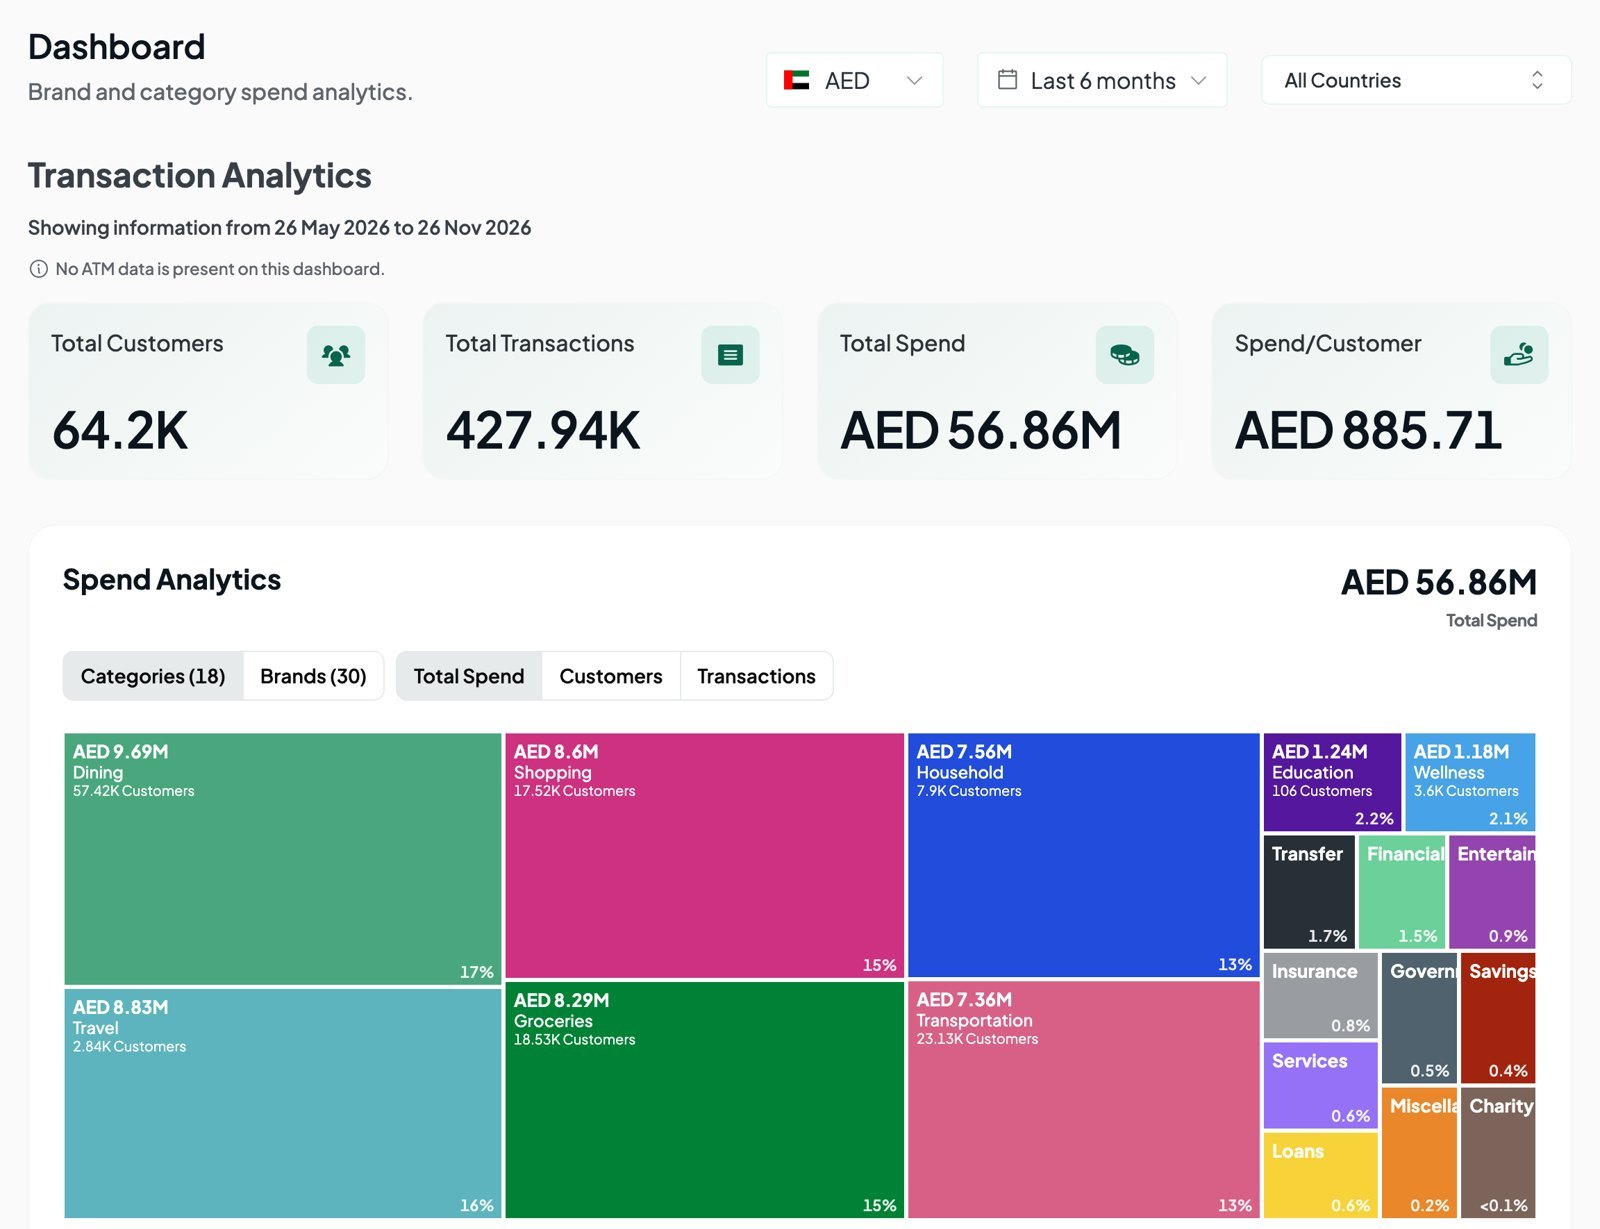
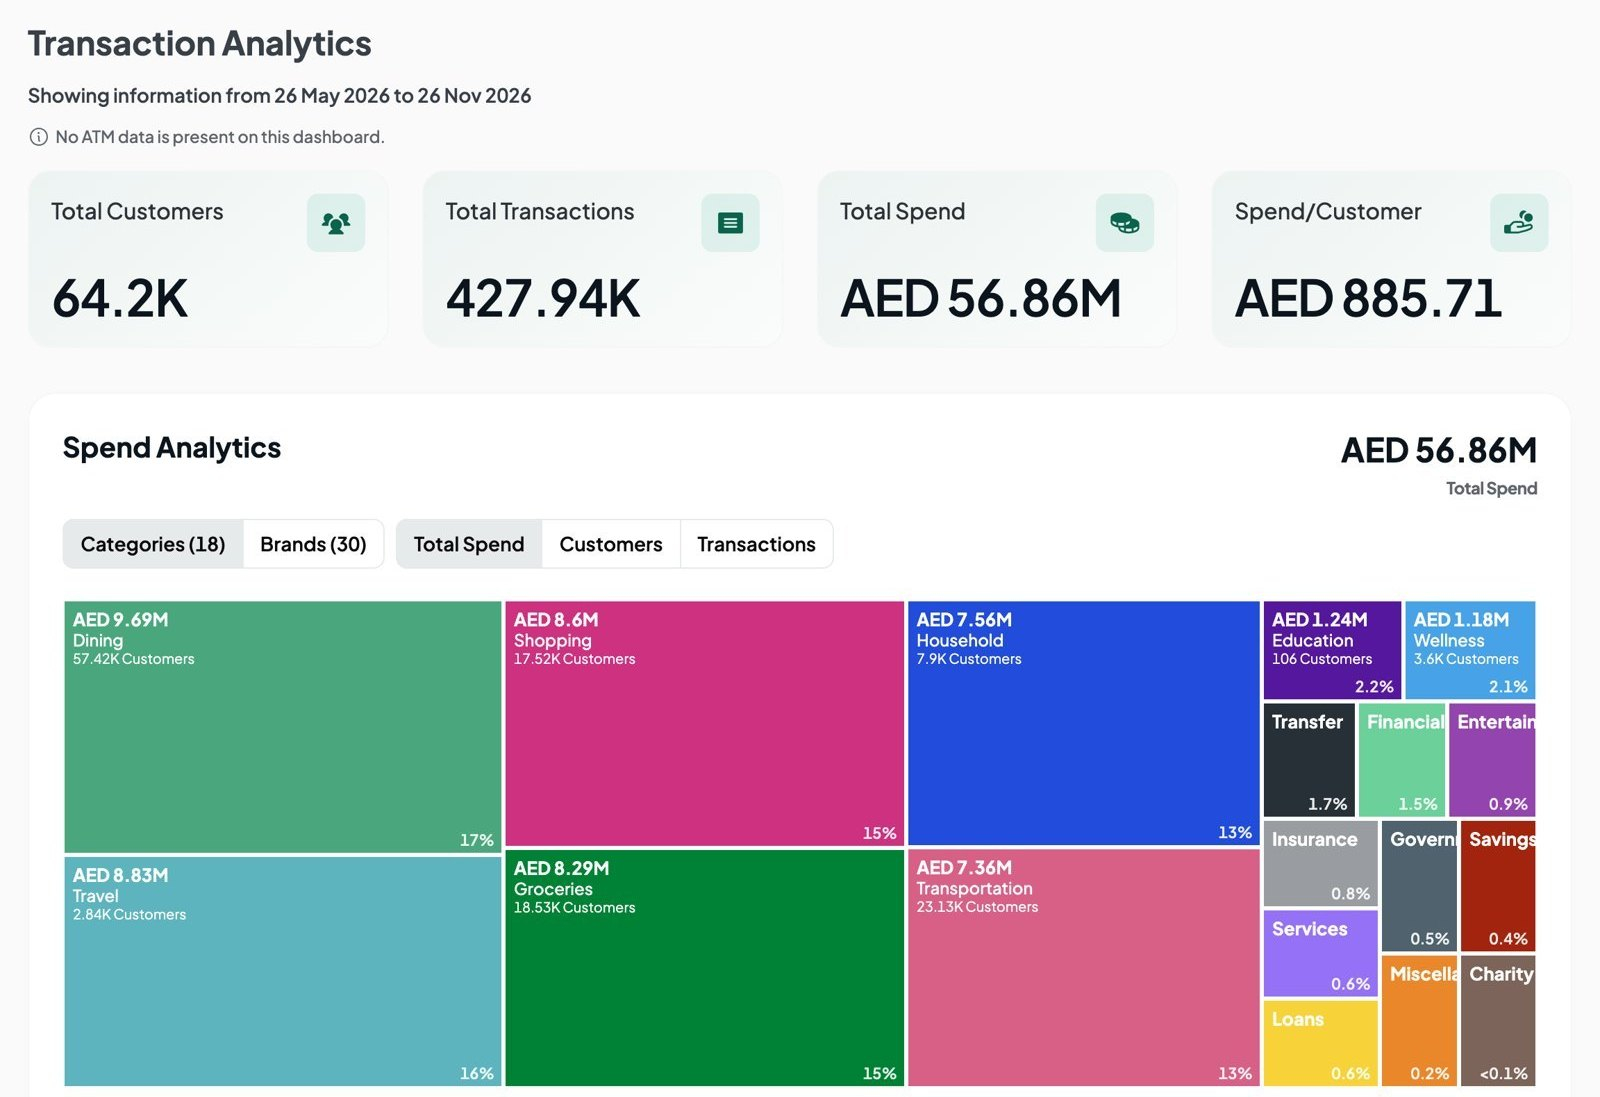
Analytics dashboard starts at Transaction Analytics; Transactions screen moves to the Enrich page

diff --git a/enrich.html b/enrich.html
@@ -72,7 +72,7 @@
 <section class="sec sec--white"><div class="wrap stack">
 <div class="feature feature--wide"><div class="feature__copy"><h2 style="font-size:clamp(26px,2.6vw,38px)">Your team sees each enriched transaction.</h2>
 <p class="lead">LuneHub is the Lune portal for bank teams. It lists each transaction with its raw description and its enriched result.</p><ul class="facts"><li><b>Search</b> by raw description or transaction ID.</li><li><b>Compare</b> the raw description with the brand and category.</li><li><b>Flag</b> a result that looks wrong.</li></ul></div><figure class="shot"><div class="shot__frame">
-<div class="ui-wrap" role="img" aria-label="LuneHub transactions list with raw description, brand, category, date and amount"><div class="ui"><div class="ui__head"><div class="ui__title"><b>Transactions</b><span>Each card description with its enriched result</span></div><div class="ui__actions"><span class="ui__pill ok">Real time</span></div></div><div class="ui__table ui__table--tx" style="--cols:4"><div class="ui__tr ui__tr--head"><span class="ui__th ">From your bank</span><span class="ui__th ui__keycol">Merchant</span><span class="ui__th opt">Category</span><span class="ui__th num opt2">Amount</span></div><div class="ui__tr"><span class="ui__td "><code>POS PUR 448812 LVL SHS DXB MALL 00AE</code></span><span class="ui__td ui__keycol"><span class="ui__brand"><img src="img/logos/levelshoes.png" alt="">Level Shoes</span></span><span class="ui__td opt">Shopping › Clothing</span><span class="ui__td num opt2">AED 1,032.00</span></div><div class="ui__tr"><span class="ui__td "><code>MAF HYPMKT MOE-0042 DXB ARE</code></span><span class="ui__td ui__keycol"><span class="ui__brand"><img src="img/logos/carrefour.png" alt="">Carrefour</span></span><span class="ui__td opt">Groceries › Supermarket</span><span class="ui__td num opt2">AED 412.30</span></div><div class="ui__tr"><span class="ui__td "><code>ALSHAYA SBX 0921 DIFC GT AE</code></span><span class="ui__td ui__keycol"><span class="ui__brand"><img src="img/logos/starbucks.png" alt="">Starbucks</span></span><span class="ui__td opt">Dining › Coffeeshop</span><span class="ui__td num opt2">AED 24.00</span></div><div class="ui__tr"><span class="ui__td "><code>NF* 8665797172 LOS GATOS 00012</code></span><span class="ui__td ui__keycol"><span class="ui__brand"><img src="img/logos/netflix.png" alt="">Netflix</span></span><span class="ui__td opt">Entertainment › Movie Streaming</span><span class="ui__td num opt2">AED 56.99</span></div><div class="ui__tr"><span class="ui__td "><code>AL FUTTAIM HML 0291 DFC DXB</code></span><span class="ui__td ui__keycol"><span class="ui__brand"><img src="img/logos/ikea.png" alt="">IKEA</span></span><span class="ui__td opt">Shopping › Furniture</span><span class="ui__td num opt2">AED 645.00</span></div><div class="ui__tr"><span class="ui__td "><code>FZ 1418829 T2 DXB AE 784</code></span><span class="ui__td ui__keycol"><span class="ui__brand"><img src="img/logos/flydubai.png" alt="">flydubai</span></span><span class="ui__td opt">Travel › Plane & Train Tickets</span><span class="ui__td num opt2">AED 1,890.00</span></div></div><p class="ui__note">Enrich names the merchant behind each card description.</p></div></div></div></figure></div>
+<img src="img/product/lunehub-transactions-list.jpg" alt="LuneHub transactions list with raw description, brand, category, date and amount" loading="lazy"></div></figure></div>
 </div></section>
 
 <section class="sec "><div class="wrap stack">

diff --git a/analytics.html b/analytics.html
@@ -39,12 +39,6 @@
 <img src="img/product/lunehub-overview.jpg" alt="LuneHub overview with cardholders with transactions, enriched transactions against the plan, and transactions by date" loading="lazy"></div></figure></div>
 </div></section>
 
-<section class="sec "><div class="wrap stack">
-<div class="feature feature--wide"><div class="feature__copy"><h2 style="font-size:clamp(26px,2.6vw,38px)">Every enriched card transaction, in one list.</h2>
-<p class="lead">Each row shows the raw card description next to the brand, logo and category that Lune returned.</p><ul class="facts"><li><b>Search</b> by raw description or transaction ID.</li><li><b>Filter</b> the list to the transactions you need.</li><li><b>Report</b> a wrong brand or category from the row.</li></ul></div><figure class="shot"><div class="shot__frame">
-<img src="img/product/lunehub-transactions-list.jpg" alt="LuneHub transactions list with raw description, brand, category, date, amount and currency" loading="lazy"></div></figure></div>
-</div></section>
-
 <section class="sec sec--white"><div class="wrap stack">
 <div class="feature feature--wide"><div class="feature__copy"><h2 style="font-size:clamp(26px,2.6vw,38px)">One view of customers, transactions and spend.</h2>
 <p class="lead">Select a date range, a currency and a country. The dashboard shows the totals and the split.</p><ul class="facts"><li><b>Total customers</b> and total transactions.</li><li><b>Total spend</b> and spend per customer.</li><li><b>Spend by category and brand</b> in one chart.</li></ul></div><figure class="shot"><div class="shot__frame">

diff --git a/build.py b/build.py
@@ -340,7 +340,7 @@ ENRICH = f"""{hero("Enrich", 'Every card payment, named: <span class="serif">mer
 
 {sec(feature("In LuneHub", "Your team sees each enriched transaction.", "LuneHub is the Lune portal for bank teams. It lists each transaction with its raw description and its enriched result.",
  [("Search", "by raw description or transaction ID."), ("Compare", "the raw description with the brand and category."), ("Flag", "a result that looks wrong.")],
- shot("lunehub-transactions.jpg", "LuneHub · Transactions", "The Transactions page in LuneHub. " + TEST, "LuneHub transactions list with raw description, brand, category, date and amount")), "sec--white")}
+ shot("lunehub-transactions-list.jpg", "LuneHub · Transactions", "", "LuneHub transactions list with raw description, brand, category, date and amount")), "sec--white")}
 
 {sec(head("Built for banks", "Certified, audited and hosted in the UAE and Saudi Arabia.") + f'''
 <div class="cols cols--4">
@@ -396,10 +396,6 @@ ANALYTICS = f"""{hero("Analytics", 'See where your customers spend, <span class=
 {sec(feature("Overview", "See your card base and enriched volume at a glance.", "The Overview is the first screen in LuneHub. It shows how many cardholders transact and how many transactions Lune enriched.",
  [("Cardholders with transactions", "for the period you select."), ("Enriched transactions", "against the volume in your plan."), ("Transactions by date", "day by day, for the last month.")],
  shot("lunehub-overview.jpg", "LuneHub · Overview", "", "LuneHub overview with cardholders with transactions, enriched transactions against the plan, and transactions by date")), "sec--white")}
-
-{sec(feature("Transactions", "Every enriched card transaction, in one list.", "Each row shows the raw card description next to the brand, logo and category that Lune returned.",
- [("Search", "by raw description or transaction ID."), ("Filter", "the list to the transactions you need."), ("Report", "a wrong brand or category from the row.")],
- shot("lunehub-transactions-list.jpg", "LuneHub · Transactions", "", "LuneHub transactions list with raw description, brand, category, date, amount and currency")))}
 
 {sec(feature("Spend dashboard", "One view of customers, transactions and spend.", "Select a date range, a currency and a country. The dashboard shows the totals and the split.",
  [("Total customers", "and total transactions."), ("Total spend", "and spend per customer."), ("Spend by category and brand", "in one chart.")],
